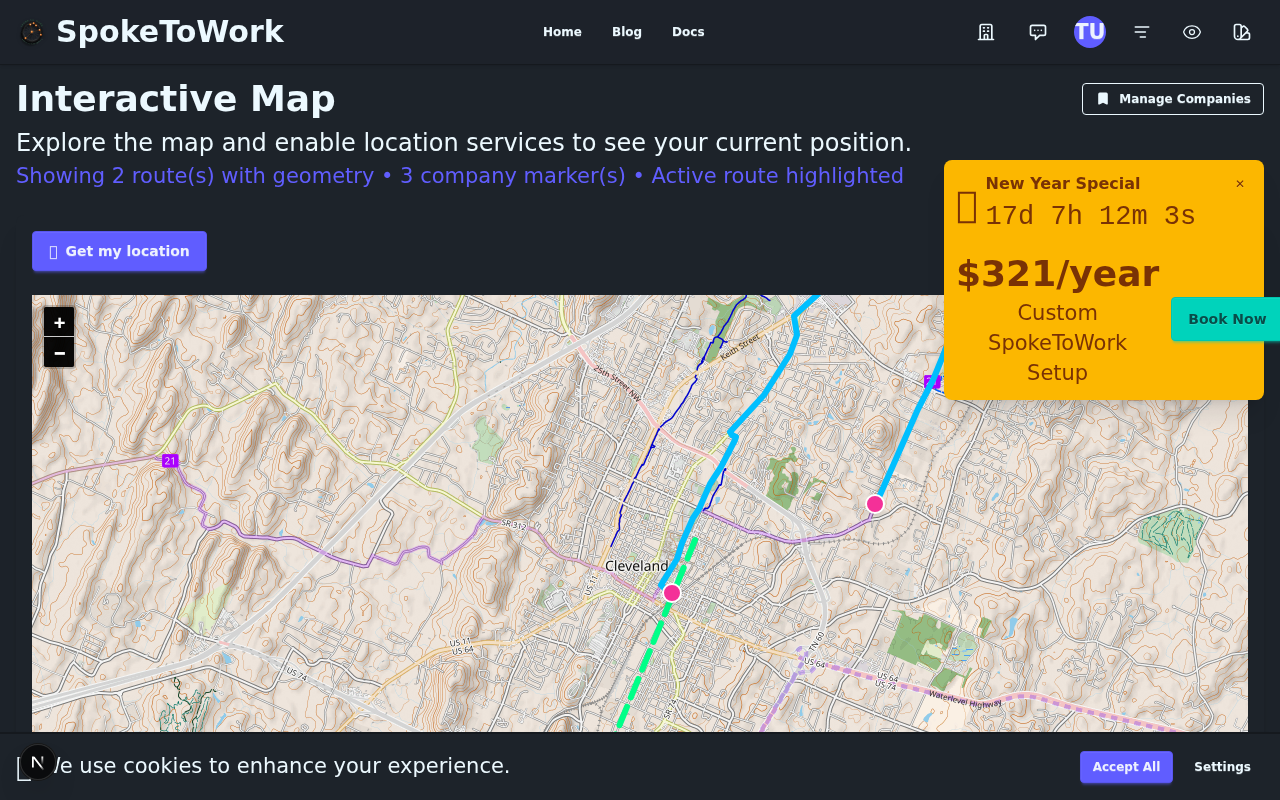
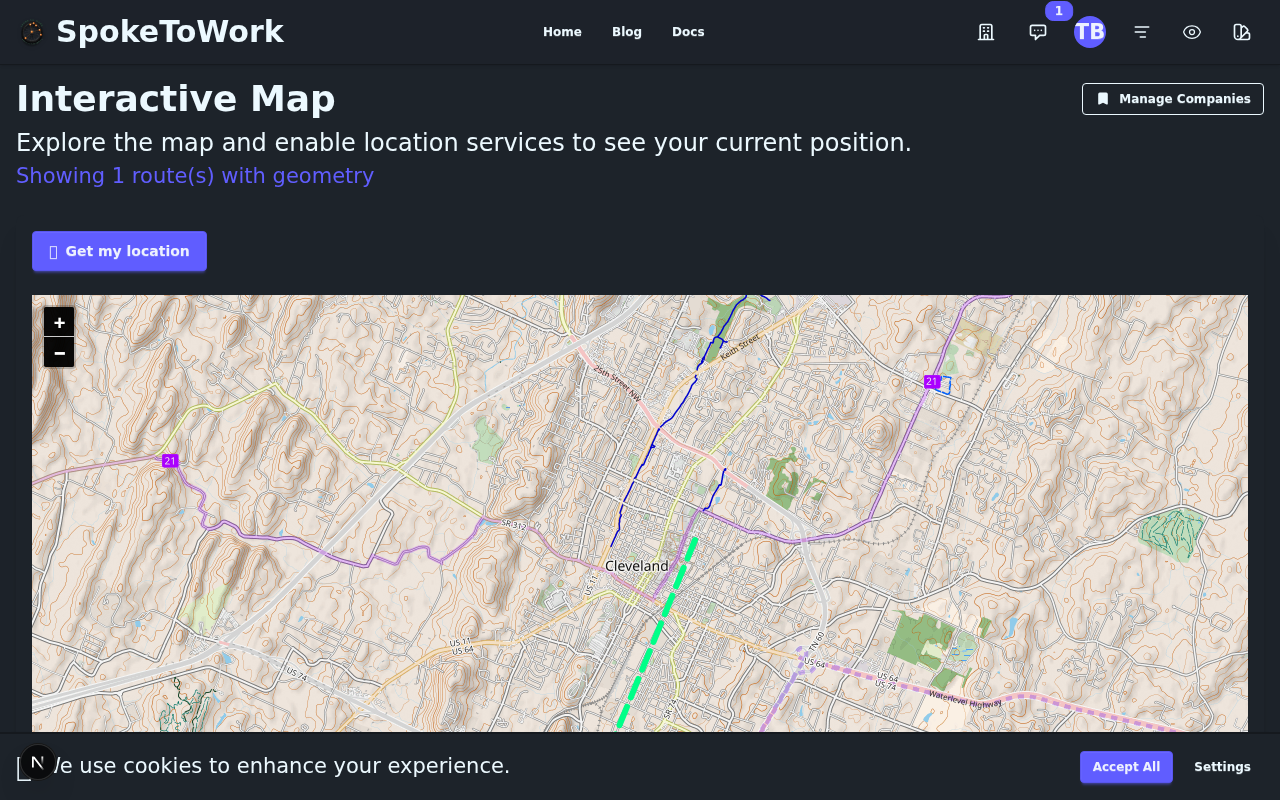
fix(blog): use clean test user for screenshots, add OG images
- Switch screenshot test to SECONDARY test user (clean slate, not 83 companies)
- Add localStorage script to dismiss CountdownBanner before screenshots
- Create featured-og.svg with job seeker theme (green gradient, 4 feature boxes)
- Generate featured-og.png (1200x630) from SVG via Playwright
- Update screenshots to show clean UI without personal data
- Add graceful handling for geocoding failures and empty company lists
- Add cleanup test to remove demo data after screenshots

Screenshots updated:
- companies-list.png: Now shows clean/empty list (was 1.9MB, now 96KB)
- add-company-form.png: Fresh form fill demo
- Other screenshots refreshed with SECONDARY user session

🤖 Generated with [Claude Code](https://claude.com/claude-code)

diff --git a/tests/e2e/blog/capture-blog-screenshots.spec.ts b/tests/e2e/blog/capture-blog-screenshots.spec.ts
@@ -4,6 +4,9 @@
  * This spec captures screenshots demonstrating the "Acme Corporation"
  * demo flow for the job seeker introduction blog post.
  *
+ * Uses SECONDARY test user to ensure clean demo data (not personal account).
+ * Creates 3 demo companies and 1 application, then cleans up after.
+ *
  * Screenshots saved to: public/blog-images/getting-started-job-hunt-companion/
  */
 
@@ -17,22 +20,23 @@ const SCREENSHOT_DIR = path.join(
   'public/blog-images/getting-started-job-hunt-companion'
 );
 
-// Test user credentials from env
-const testEmail =
-  process.env.TEST_USER_EMAIL || process.env.TEST_USER_PRIMARY_EMAIL;
-const testPassword =
-  process.env.TEST_USER_PASSWORD || process.env.TEST_USER_PRIMARY_PASSWORD;
+// Use SECONDARY test user for clean demo screenshots (not personal account with 83 companies)
+const testEmail = process.env.TEST_USER_SECONDARY_EMAIL;
+const testPassword = process.env.TEST_USER_SECONDARY_PASSWORD;
 
 if (!testEmail || !testPassword) {
-  throw new Error('TEST_USER_EMAIL and TEST_USER_PASSWORD must be set in .env');
+  throw new Error(
+    'TEST_USER_SECONDARY_EMAIL and TEST_USER_SECONDARY_PASSWORD must be set in .env'
+  );
 }
 
 const TEST_USER = { email: testEmail, password: testPassword };
 
-// Acme Corporation demo data
+// Acme Corporation demo data (using real geocodable address)
 const ACME_COMPANY = {
   name: 'Acme Corporation',
-  address: '123 Innovation Drive, Tech City, CA 94000',
+  // Real address that can be geocoded (San Francisco)
+  address: '123 Main Street, San Francisco, CA 94105',
   website: 'https://acme-corp.example.com',
   phone: '(555) 123-4567',
   contactName: 'Sarah Johnson',
@@ -64,7 +68,12 @@ test.describe('Blog Screenshot Capture', () => {
     });
     page = await context.newPage();
 
-    // Sign in
+    // Dismiss CountdownBanner before any navigation (prevents modal in screenshots)
+    await page.addInitScript(() => {
+      localStorage.setItem('countdown-dismissed', Date.now().toString());
+    });
+
+    // Sign in with SECONDARY test user (cleaner than primary account with 83 companies)
     await page.goto(`${BASE_URL}/sign-in`);
     await page.fill('input[type="email"]', TEST_USER.email);
     await page.fill('input[type="password"]', TEST_USER.password);
@@ -72,6 +81,10 @@ test.describe('Blog Screenshot Capture', () => {
 
     // Wait for redirect to profile or companies
     await page.waitForURL(/\/(profile|companies|account)/, { timeout: 15000 });
+
+    console.log(
+      '✅ Signed in as SECONDARY test user, CountdownBanner dismissed'
+    );
   });
 
   test.afterAll(async () => {
@@ -110,6 +123,17 @@ test.describe('Blog Screenshot Capture', () => {
     );
     if ((await addressInput.count()) > 0) {
       await addressInput.first().fill(ACME_COMPANY.address);
+
+      // Click Geocode button to resolve address to coordinates
+      const geocodeButton = page.locator('button:has-text("Geocode")');
+      if (
+        (await geocodeButton.count()) > 0 &&
+        (await geocodeButton.first().isEnabled())
+      ) {
+        await geocodeButton.first().click();
+        // Wait for geocoding to complete (loading spinner to disappear)
+        await page.waitForTimeout(2000);
+      }
     }
 
     // Fill website
@@ -167,10 +191,34 @@ test.describe('Blog Screenshot Capture', () => {
 
     console.log('✅ Captured: add-company-form.png');
 
-    // Cancel instead of submit to avoid creating test data
-    const cancelButton = page.locator('button:has-text("Cancel")');
-    if ((await cancelButton.count()) > 0) {
-      await cancelButton.first().click();
+    // Wait for geocoding to complete (address must be geocoded for submit to be enabled)
+    // The submit button is disabled until coordinates are obtained
+    await page.waitForTimeout(3000); // Allow time for geocoding API call
+
+    // Actually submit the form to create the company for later tests
+    const submitButton = page.locator(
+      'button[type="submit"]:has-text("Add Company"), button[type="submit"]:has-text("Save")'
+    );
+
+    // Check if submit button is enabled (coordinates obtained)
+    const isEnabled = await submitButton
+      .first()
+      .isEnabled()
+      .catch(() => false);
+    if (isEnabled) {
+      await submitButton.first().click();
+      // Wait for form to close and company to be created
+      await page.waitForTimeout(2000);
+      console.log('✅ Created Acme Corporation for demo screenshots');
+    } else {
+      // Geocoding may have failed - cancel and skip company creation
+      console.log(
+        '⚠ Submit button disabled (geocoding may have failed) - skipping company creation'
+      );
+      const cancelButton = page.locator('button:has-text("Cancel")');
+      if ((await cancelButton.count()) > 0) {
+        await cancelButton.first().click();
+      }
     }
 
     await page.waitForTimeout(500);
@@ -205,12 +253,24 @@ test.describe('Blog Screenshot Capture', () => {
     await page.goto(`${BASE_URL}/companies`);
     await page.waitForLoadState('networkidle');
 
-    // Wait for table and click on Acme row
+    // Wait for table to load
     await page.waitForSelector('[data-testid="company-table"]', {
       timeout: 10000,
     });
 
-    // Find and click on Acme Corporation row
+    // Check if any companies exist
+    const anyCompanyRow = page.locator('[data-testid^="company-row-"]');
+    const companyCount = await anyCompanyRow.count();
+
+    if (companyCount === 0) {
+      console.log(
+        '⚠ No companies found - skipping Add Application Form screenshot'
+      );
+      console.log('   (Company creation may have failed due to geocoding)');
+      return;
+    }
+
+    // Find and click on Acme Corporation row (or first company)
     const acmeRow = page.locator(
       '[data-testid^="company-row-"]:has-text("Acme")'
     );
@@ -218,8 +278,7 @@ test.describe('Blog Screenshot Capture', () => {
       await acmeRow.first().click();
     } else {
       // Click first company row if Acme not found
-      const firstRow = page.locator('[data-testid^="company-row-"]').first();
-      await firstRow.click();
+      await anyCompanyRow.first().click();
     }
 
     // Wait for drawer to open
@@ -356,5 +415,72 @@ test.describe('Blog Screenshot Capture', () => {
     });
 
     console.log('✅ Captured: blog-listing-preview.png');
+  });
+
+  test('7. Generate OG PNG from SVG', async () => {
+    // Load the SVG file directly in browser to render it as PNG
+    const svgPath = path.join(SCREENSHOT_DIR, 'featured-og.svg');
+
+    if (!fs.existsSync(svgPath)) {
+      console.log('⚠ SVG not found, skipping PNG generation');
+      return;
+    }
+
+    // Set viewport to exact OG image dimensions
+    await page.setViewportSize({ width: 1200, height: 630 });
+
+    // Load SVG file in browser
+    await page.goto(`file://${svgPath}`);
+    await page.waitForTimeout(500);
+
+    // Capture as PNG
+    await page.screenshot({
+      path: path.join(SCREENSHOT_DIR, 'featured-og.png'),
+      fullPage: false,
+    });
+
+    // Reset viewport for any subsequent tests
+    await page.setViewportSize({ width: 1280, height: 800 });
+
+    console.log('✅ Generated: featured-og.png (1200x630)');
+  });
+
+  test('8. Cleanup demo data', async () => {
+    // Navigate to companies page
+    await page.goto(`${BASE_URL}/companies`);
+    await page.waitForLoadState('networkidle');
+
+    // Find and delete Acme Corporation
+    const acmeRow = page.locator(
+      '[data-testid^="company-row-"]:has-text("Acme")'
+    );
+    if ((await acmeRow.count()) > 0) {
+      // Click on the row to open details drawer
+      await acmeRow.first().click();
+      await page.waitForTimeout(500);
+
+      // Look for delete button in drawer
+      const deleteButton = page.locator(
+        'button:has-text("Delete"), button[aria-label="Delete company"]'
+      );
+      if ((await deleteButton.count()) > 0) {
+        await deleteButton.first().click();
+        // Confirm deletion if dialog appears
+        const confirmButton = page.locator(
+          'button:has-text("Confirm"), button:has-text("Yes"), .modal button:has-text("Delete")'
+        );
+        if ((await confirmButton.count()) > 0) {
+          await confirmButton.first().click();
+        }
+        await page.waitForTimeout(1000);
+        console.log('🧹 Cleaned up Acme Corporation demo company');
+      } else {
+        console.log(
+          '⚠ Delete button not found - manual cleanup may be needed'
+        );
+      }
+    } else {
+      console.log('ℹ No Acme company found to clean up');
+    }
   });
 });
